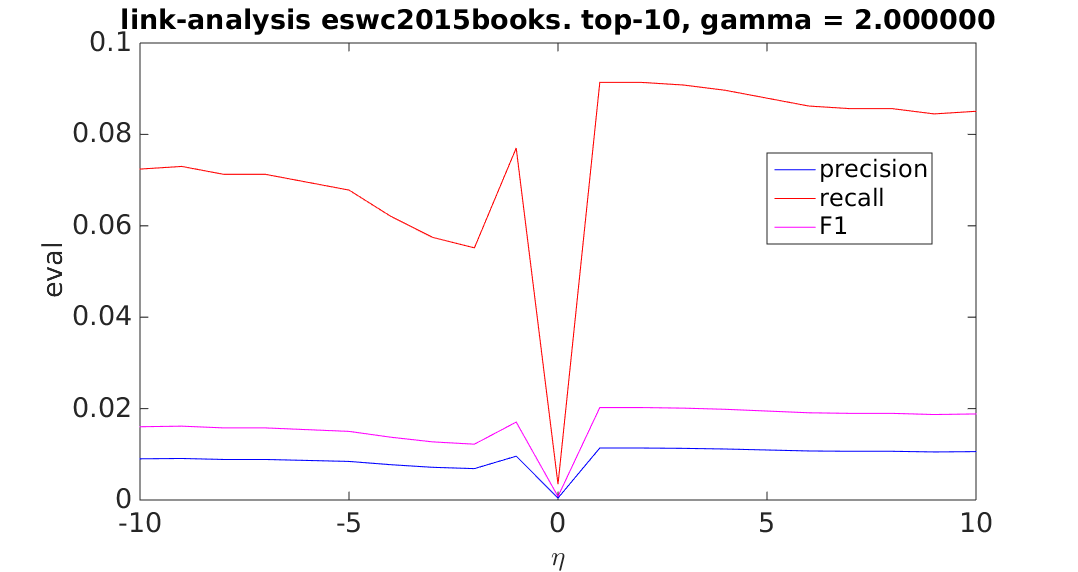
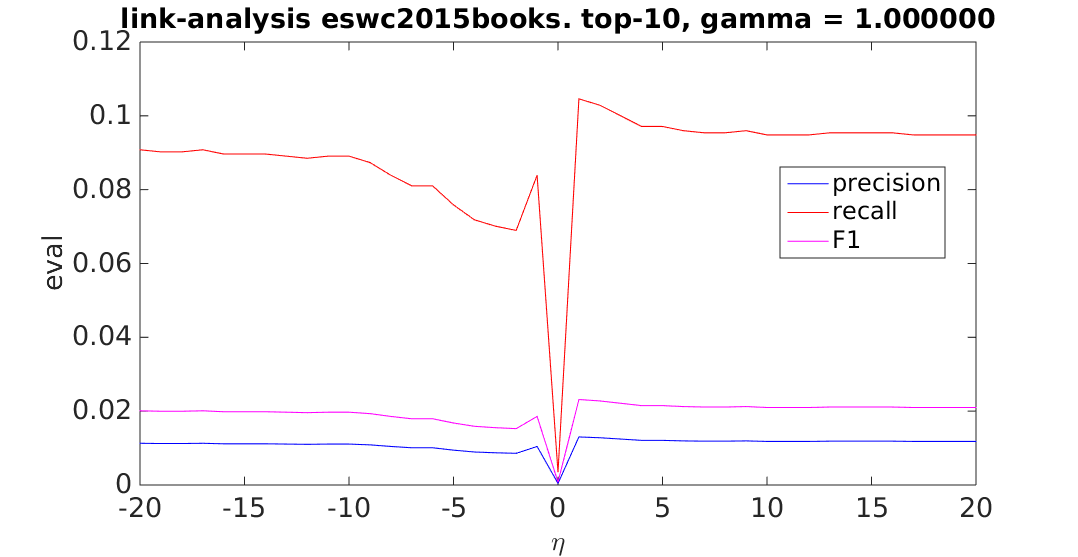
Generate/regenerate plots and things.

diff --git a/report/results/parameters/linkanalysis.tex b/report/results/parameters/linkanalysis.tex
@@ -1,48 +1,48 @@
 
 \subsection{link-analysis}
 
-There are two parameters to \textit{link-analysis}: $\gamma$ and $\eta$. They are both continuous and both are undefined at 0.
+There are two parameters to \textit{link-analysis}: $\gamma$ and $\eta$, they are both continuous. At $\eta = 0$ all recommendations will always be 0.
 
 The following plot is evaluated using \textit{F-measure} w.r.t. the test set using top-10 recommendations over the parameter space of both $\gamma$ and $\eta$.
 
 \begin{figure}[h!]
-    \includegraphics[width=\textwidth]{fig/link_eta_gamma/alphaS_link_eta.png}
+    \includegraphics[width=\textwidth]{fig/link_eta_gamma/alphaS_link.png}
     \caption{\textit{alphaS}}
     \label{fig:linkalphaS}
 \end{figure}
 
-As noted before, the function is undefined at $\gamma = 0$ and $\eta = 0$. For \textit{alphaS} it appears $\gamma < 0$ is a very bad choice. Both $\eta > 0$ and $\eta < 0$ seems to be fair choices.
+For \textit{alphaS} it appears $\gamma < 0$ is a very bad choice. Both $\eta > 0$ and $\eta < 0$ seems to be fair choices, with $\eta > 0$ being slightly better. As long as $\eta > 0$, the specific choice of $\eta$ doesn't seem to matter that much. Curiously $\gamma = 0$ represents a peak. There's an anomaly at $\eta = -2$ which is markedly worse than $\eta = -1$ and $\eta = -3$.
 
 \begin{figure}[h!]
 \centering
 \begin{minipage}{.5\textwidth}
     \centering
-    \includegraphics[width=\linewidth]{fig/link_eta_gamma/movielens_link_eta.png}
+    \includegraphics[width=\linewidth]{fig/link_eta_gamma/movielens_link.png}
     \captionof{figure}{\textit{movielens1m}}
 \end{minipage}%
 \begin{minipage}{.5\textwidth}
     \centering
-    \includegraphics[width=\linewidth]{fig/link_eta_gamma/romeo_link_eta.png}
+    \includegraphics[width=\linewidth]{fig/link_eta_gamma/romeo_link.png}
     \captionof{figure}{\textit{romeo}}
 \end{minipage}
 \end{figure}
 
-Similar observations can be made for \textit{movielens1m} and \textit{romeo}. The function space seems to be fairly smooth, almost convex. \textit{alphaS} has an anomaly at $\eta = -2$ and the parameters at 0 are exceptions.
+Similarly for \textit{movielens1m} and \textit{romeo}, $\gamma > 0$ is generally better than $\gamma < 0$. This time $\gamma = 0$ does not represent the maximum function value. The function space seems to be fairly smooth, almost convex, except for $\eta = 0$. For \textit{movielens1m} $\eta < 0$ is the better choice.
 
 \FloatBarrier
 
 \begin{figure}[h!]
-    \includegraphics[width=\textwidth]{fig/link_eta_gamma/eswc2015books.png}
+    \includegraphics[width=\textwidth]{fig/link_eta_gamma/eswc2015books_link.png}
     \caption{\textit{eswc2015books}}
 \end{figure}
 
 \FloatBarrier
 
-A closer look at \textit{eswc2015books}, ignoring $\gamma < 0$, reveals that the function space isn't as smooth as it might have seemed in the previous plots, several local optima can be seen. An anomaly around $\eta = -2$ is visible here as well.
+A closer look at \textit{eswc2015books} reveals that the function space isn't as smooth as it might have seemed in the previous plots, several local optima can be seen. A decline around $\eta = -2$ is similar to that of \textit{alphaS}. Another similarity is that as long as $\eta > 0$, the exact value of $\eta$ doesn't seem to matter that much.
 
 \newpage
 
-Interestingly some of the datasets have their maximum at $\eta > 0$ but others have $\eta < 0$. What follows is some plots over $\eta$ and a fixed $\gamma = 2$.
+Interestingly some of the datasets have their maximum at $\eta > 0$ but others have $\eta < 0$. What follows is some plots over $\eta$ and a fixed $\gamma = 1$.
 
 \FloatBarrier
 
@@ -76,9 +76,9 @@ Interestingly some of the datasets have their maximum at $\eta > 0$ but others h
 
 \FloatBarrier
 
-Here \textit{alphaS} and \textit{eswc2015books} have maximum \textit{F-measure} with $\eta < 0$ but \textit{movielens1m} and \textit{romeo} with $\eta > 0$.
+Here \textit{alphaS} and \textit{eswc2015books} have maximum \textit{F-measure} with $\eta > 0$ but \textit{movielens1m} and \textit{romeo} with $\eta < 0$.
 
-The actual optima, given optimization criteria of $\eta$ and $\gamma$, can be different. As can be seen in \figureref{fig:linkalphaS} the optima uses a smaller $\gamma$ and a positive $\eta$. But the local optima can still be found with either $\eta > 0$ or $\eta < 0$.
+%The actual optima, given optimization criteria of $\eta$ and $\gamma$, can be different. As can be seen in \figureref{fig:linkalphaS} the optima uses a smaller $\gamma$ and a positive $\eta$. But the local optima can still be found with either $\eta > 0$ or $\eta < 0$.
 
 \newpage
 

diff --git a/report/results/learning_curves.tex b/report/results/learning_curves.tex
@@ -3,49 +3,16 @@
 
 Learning curves plots the evaluation metric with respect to a varying training set size. The expectation here is that the algorithms should fit better the bigger the training set size becomes, given the same test set. The algorithms should produce better recommendations the more data they have to learn from. Learning curves is a good way to see if the algorithms work like they're supposed to.
 
-\Warning[TODO]{ Explain evaluations }
-\Warning[TODO]{ Insert/make plots }
+The evaluation uses the training matrix $A_{train}$ and the test set matrix $A_{test}$. For each step a random selection of a specific size is selected from $A_{train}$, recommendations are generated and evaluated against the same test set $A_{test}$. The dimensions of the matrices will the same, only the number of non-zero elements are increased with the training set size. This was done 10 times for each training set size as to remove variations from the random selection. The evaluation metric used was \textit{F-measure} with top-10 recommendations.
 
-%Learning curves plots the evaluation metric with respect to a varying training set size. Evaluated with a top-10 recommender list, using F-measure.
+Optimized parameters as described in \tableref{tab:katzeig_params_used} and \tableref{tab:linkanalysis_params_used} were used.
 
-%\textit{x-axis should it be training size or percent?}
+\twopic{fig/learning_curves/alphaS_learning_perf.png}{fig/learning_curves/alphaS_learning_time.png}{
+\textit{alphaS}
+}
+\twopic{fig/learning_curves/eswc2015books_learning_perf.png}{fig/learning_curves/eswc2015books_learning_time.png}{
+\textit{eswc2015books}
+}
 
-%\begin{itemize}
-    %\item alpha
-    %\item alpha2
-    %\item eswc2015movies
-    %\item eswc2015music
-    %\item eswc2015books
-    %\item movielens1m
-    %\item romeo
-%\end{itemize}
+A notable observation about the runtime is that the runtime for \textit{link-analysis} increases almost linearly with the increase in training set size, the runtime for \textit{katz-eig} is almost indifferent. This is to be expected as \textit{katz-eig} operates on a low-rank approximation of the interaction matrix $A_{train}$ while \textit{link-analysis} operates directly on the matrix. The sparse matrix format (\sectionref{sec:background:theory:matrix}) which discards zero elements during calculations is computationally more complex as the sparsity decreases.
 
-%\Warning[TODO]{ Generate better graphs!! }
-%\Warning[TODO]{ Why predetermined? Title is WRONG! }
-
-
-%\begin{figure}[ht]
-  %\centering
-    %\includegraphics[width=0.9\textwidth]{fig/learning_curves/movielens_learning_curves.png}
-    %\caption{Learning curves using \textit{movielens1m}
-        %Used a predetermined $\eta = -2$ and $\gamma = 1.8$ for link-analysis and $\beta = \frac{1}{|A_{train}|}$ with the model $K = 30$ for katz-eig.}
-%\end{figure}
-
-%\begin{figure}[ht]
-  %\centering
-    %\includegraphics[width=0.9\textwidth]{fig/learning_curves/eswc2015books_learning_curves.png}
-    %\caption{Learning curves using \textit{eswc2015books}
-        %Used a predetermined $\eta = -2$ and $\gamma = 1.8$ for link-analysis and $\beta = \frac{1}{|A_{train}|}$ with the model $K = 30$ for katz-eig.}
-%\end{figure}
-
-
-%%Used a predetermined $\eta = -2$ and $\gamma = 1.8$ for link-analysis and $\beta = \frac{1}{|A_{train}|}$ with the model $K = 10$ for katz-eig.
-
-
-%XXX link-analysis is slower the more training data we have.
-%katz-eig is practically indifferent.
-%plot time!
-
-\Warning[TODO]{ link is slower the more data we have, katz-eig is basically indifferent }
-
-%\FloatBarrier

diff --git a/report/results/training_curves.tex b/report/results/training_curves.tex
@@ -48,19 +48,24 @@ In all following usages of \textit{katz-eig}, a value of $\epsilon = 0.01$ was u
 
 \subsection{link-analysis}
 
-\Warning[TODO]{ Finish this section! }
+\begin{figure}[h!]
+\centering
+\begin{minipage}{.5\textwidth}
+    \centering
+    \includegraphics[width=\linewidth]{fig/link_t/eswc2015books_link_t.png}
+    \captionof{figure}{\textit{eswc2015books}}
+\end{minipage}%
+%\begin{minipage}{.5\textwidth}
+    %\centering
+    %\includegraphics[width=\linewidth]{fig/katzeig_t/romeo_katzeig_t.png}
+    %\captionof{figure}{\textit{romeo}}
+%\end{minipage}
+\end{figure}
 
-\textit{Similar analysis as for katz-eig}
+\Warning[TODO]{ More plots }
 
-\textit{link-analysis} had it's maximum number of iterations fixed as $t_{max} = 3$ for the remained of this thesis.
+For \textit{link-analysis} convergence is also fast. The choice here was to fix $t_{max}$ to a fixed value instead of measuring convergence either by calculating $\| \PR_t - \PR_{t - 1} \|_2$
+or by explicitly calculating \textit{F-measure} and measuring the change. This was done because the iteration step in \textit{link-analysis}, in contrast to \textit{katz-eig}, handles large matrices and calculations such as these would be time consuming.
 
-
-%\begin{itemize}
-    %\item alphaS
-    %\item eswc2015movies
-    %\item eswc2015books (skip?)
-    %\item movielens1m
-    %\item romeo
-%\end{itemize}
-
+In all following usages of \textit{link-analysis}, the iteration count was fixed to $t_{max} = 3$.
 

diff --git a/report/results/algo_comp.tex b/report/results/algo_comp.tex
@@ -27,8 +27,8 @@ Possibly compare the different optimization approaches? Possibly merge with para
     \begin{tabular}{| c | c | c | c | c | c | }
         \hline
         \textbf{}   & \textit{alphaS}   & \textit{eswc2015books} & \textit{eswc2015movies} & \textit{movielens1m}   & \textit{romeo} \\ \hline
-        $\gamma$    &                   &                        &                         &                        &                \\ \hline
-        $\eta$      &                   &                        &                         &                        &                \\ \hline
+        $\gamma$    & 1                 & 0                      &                         & 1                      &                \\ \hline
+        $\eta$      & 4                 & 2.5                    &                         & -3                     &                \\ \hline
     \end{tabular}
     \caption{Optimized parameters for \textit{link-analysis}.}
     \label{tab:linkanalysis_params_used}
